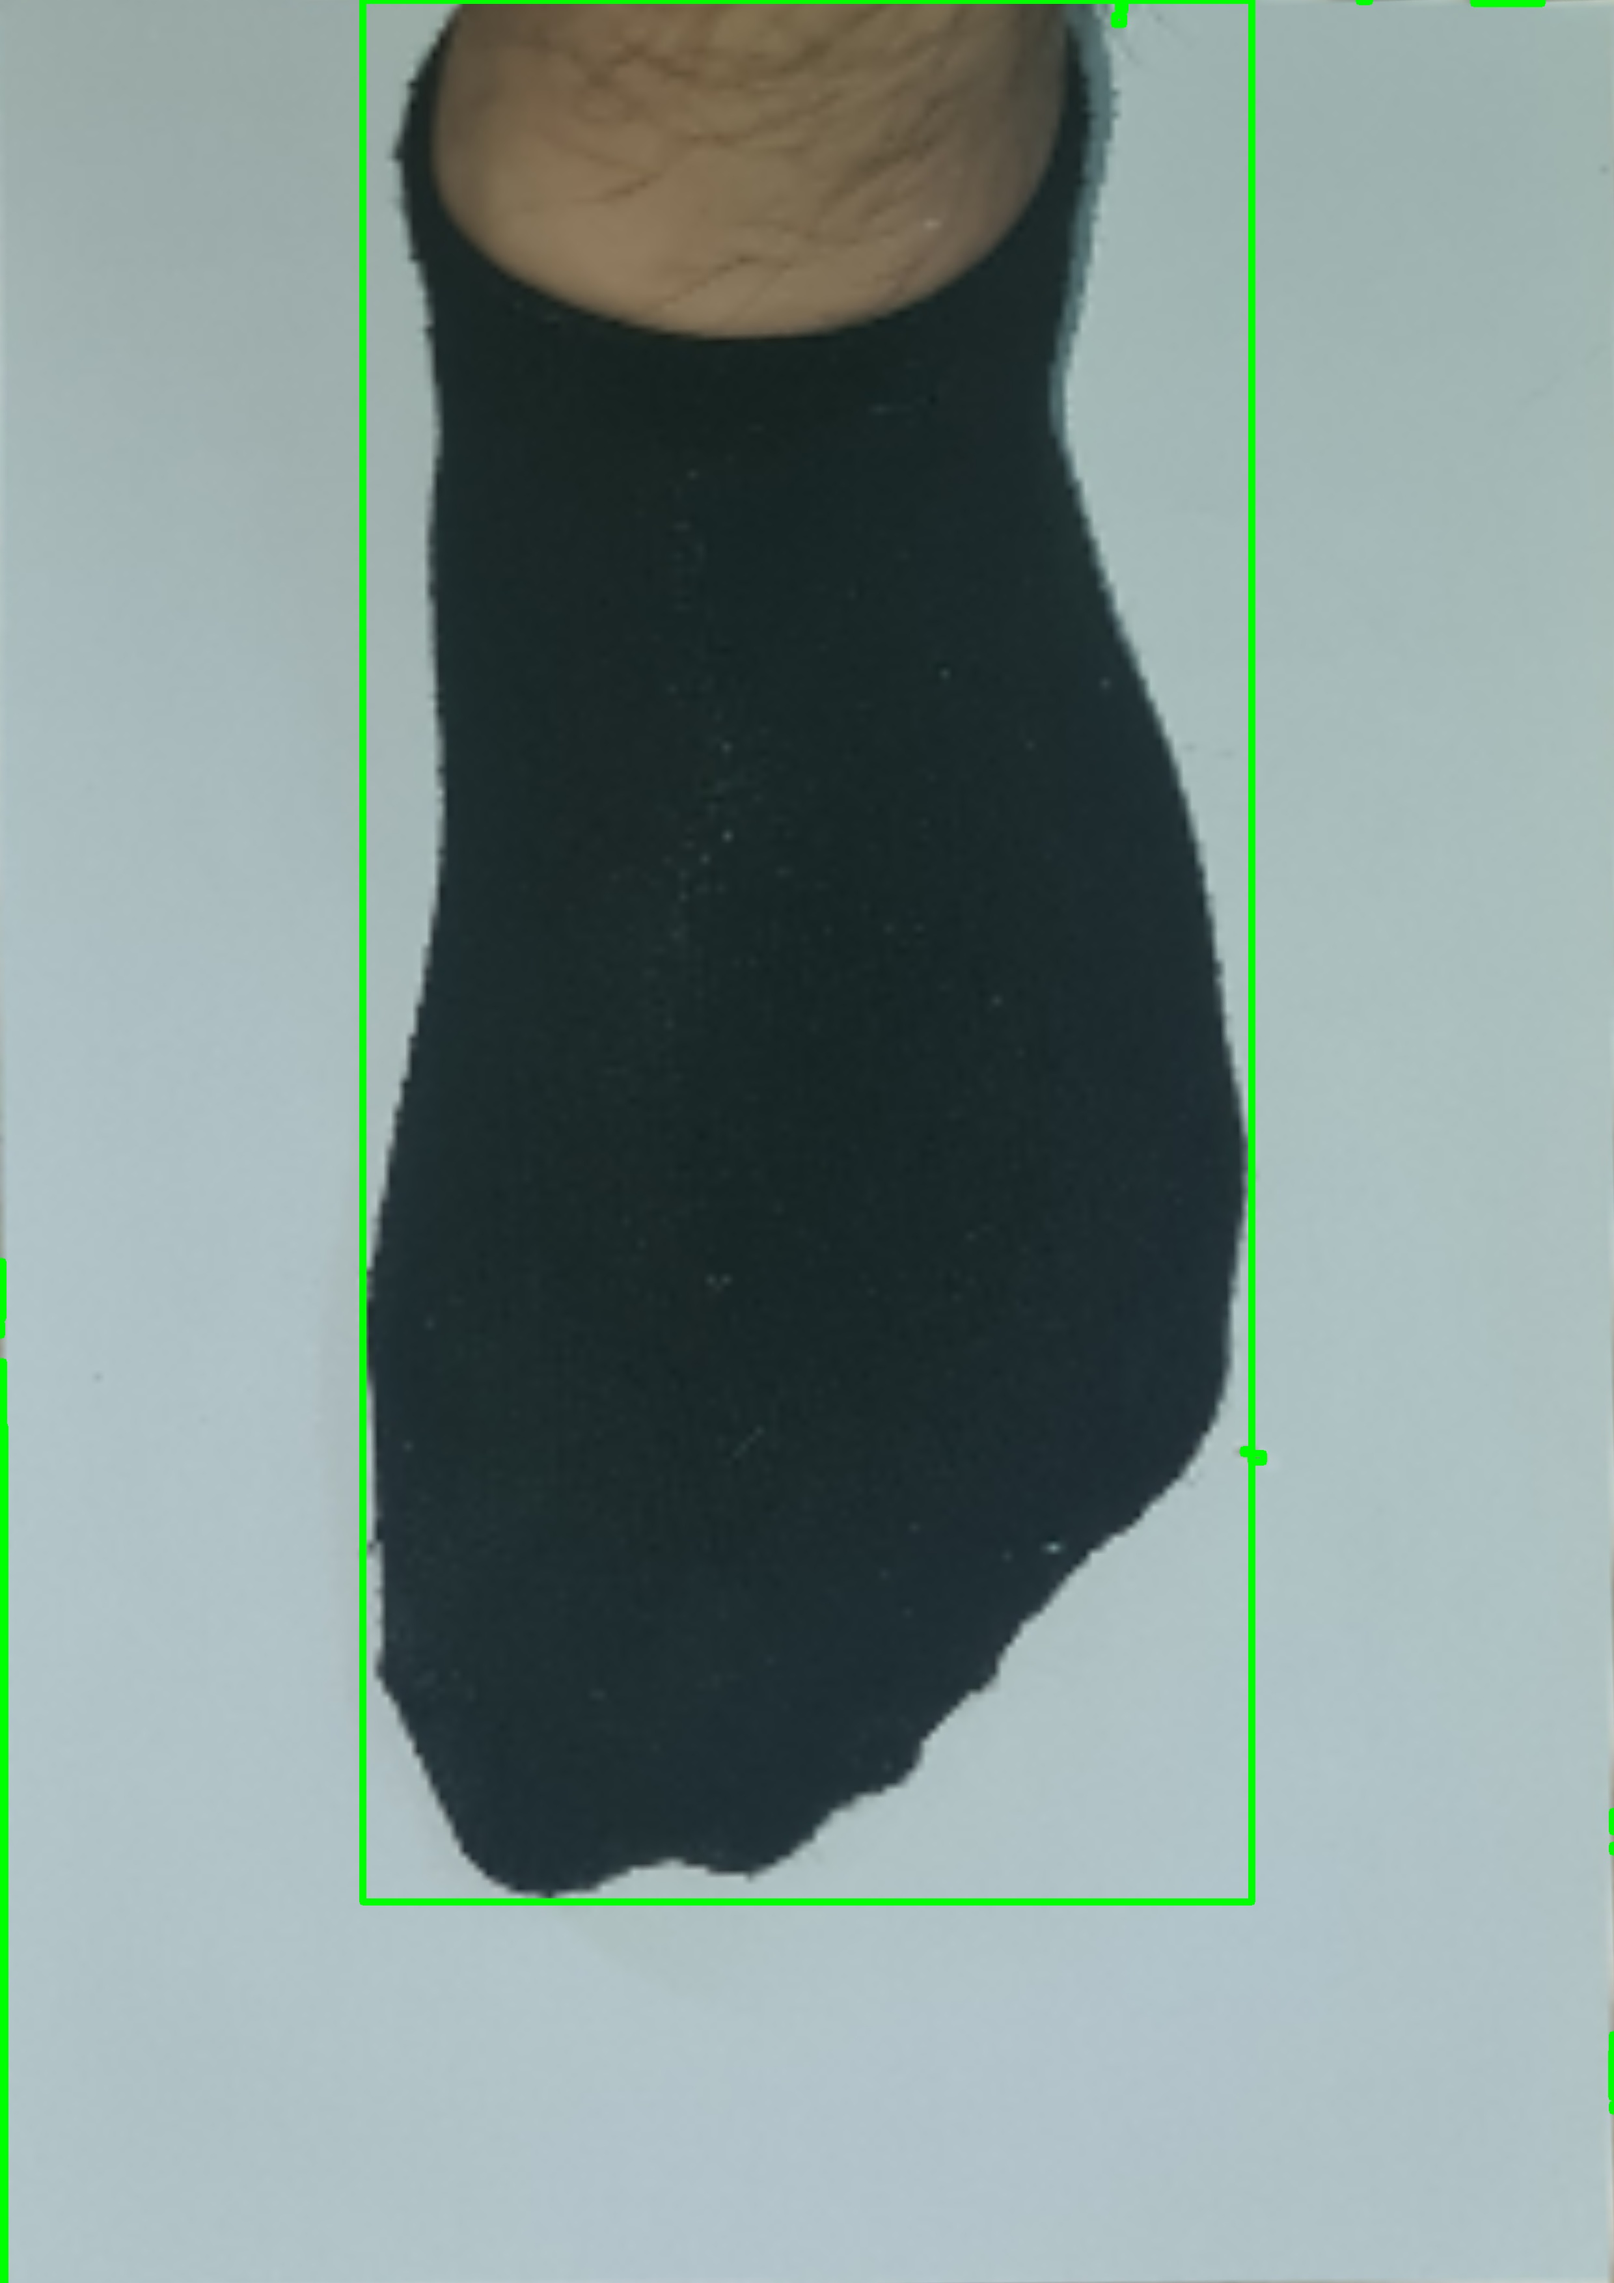
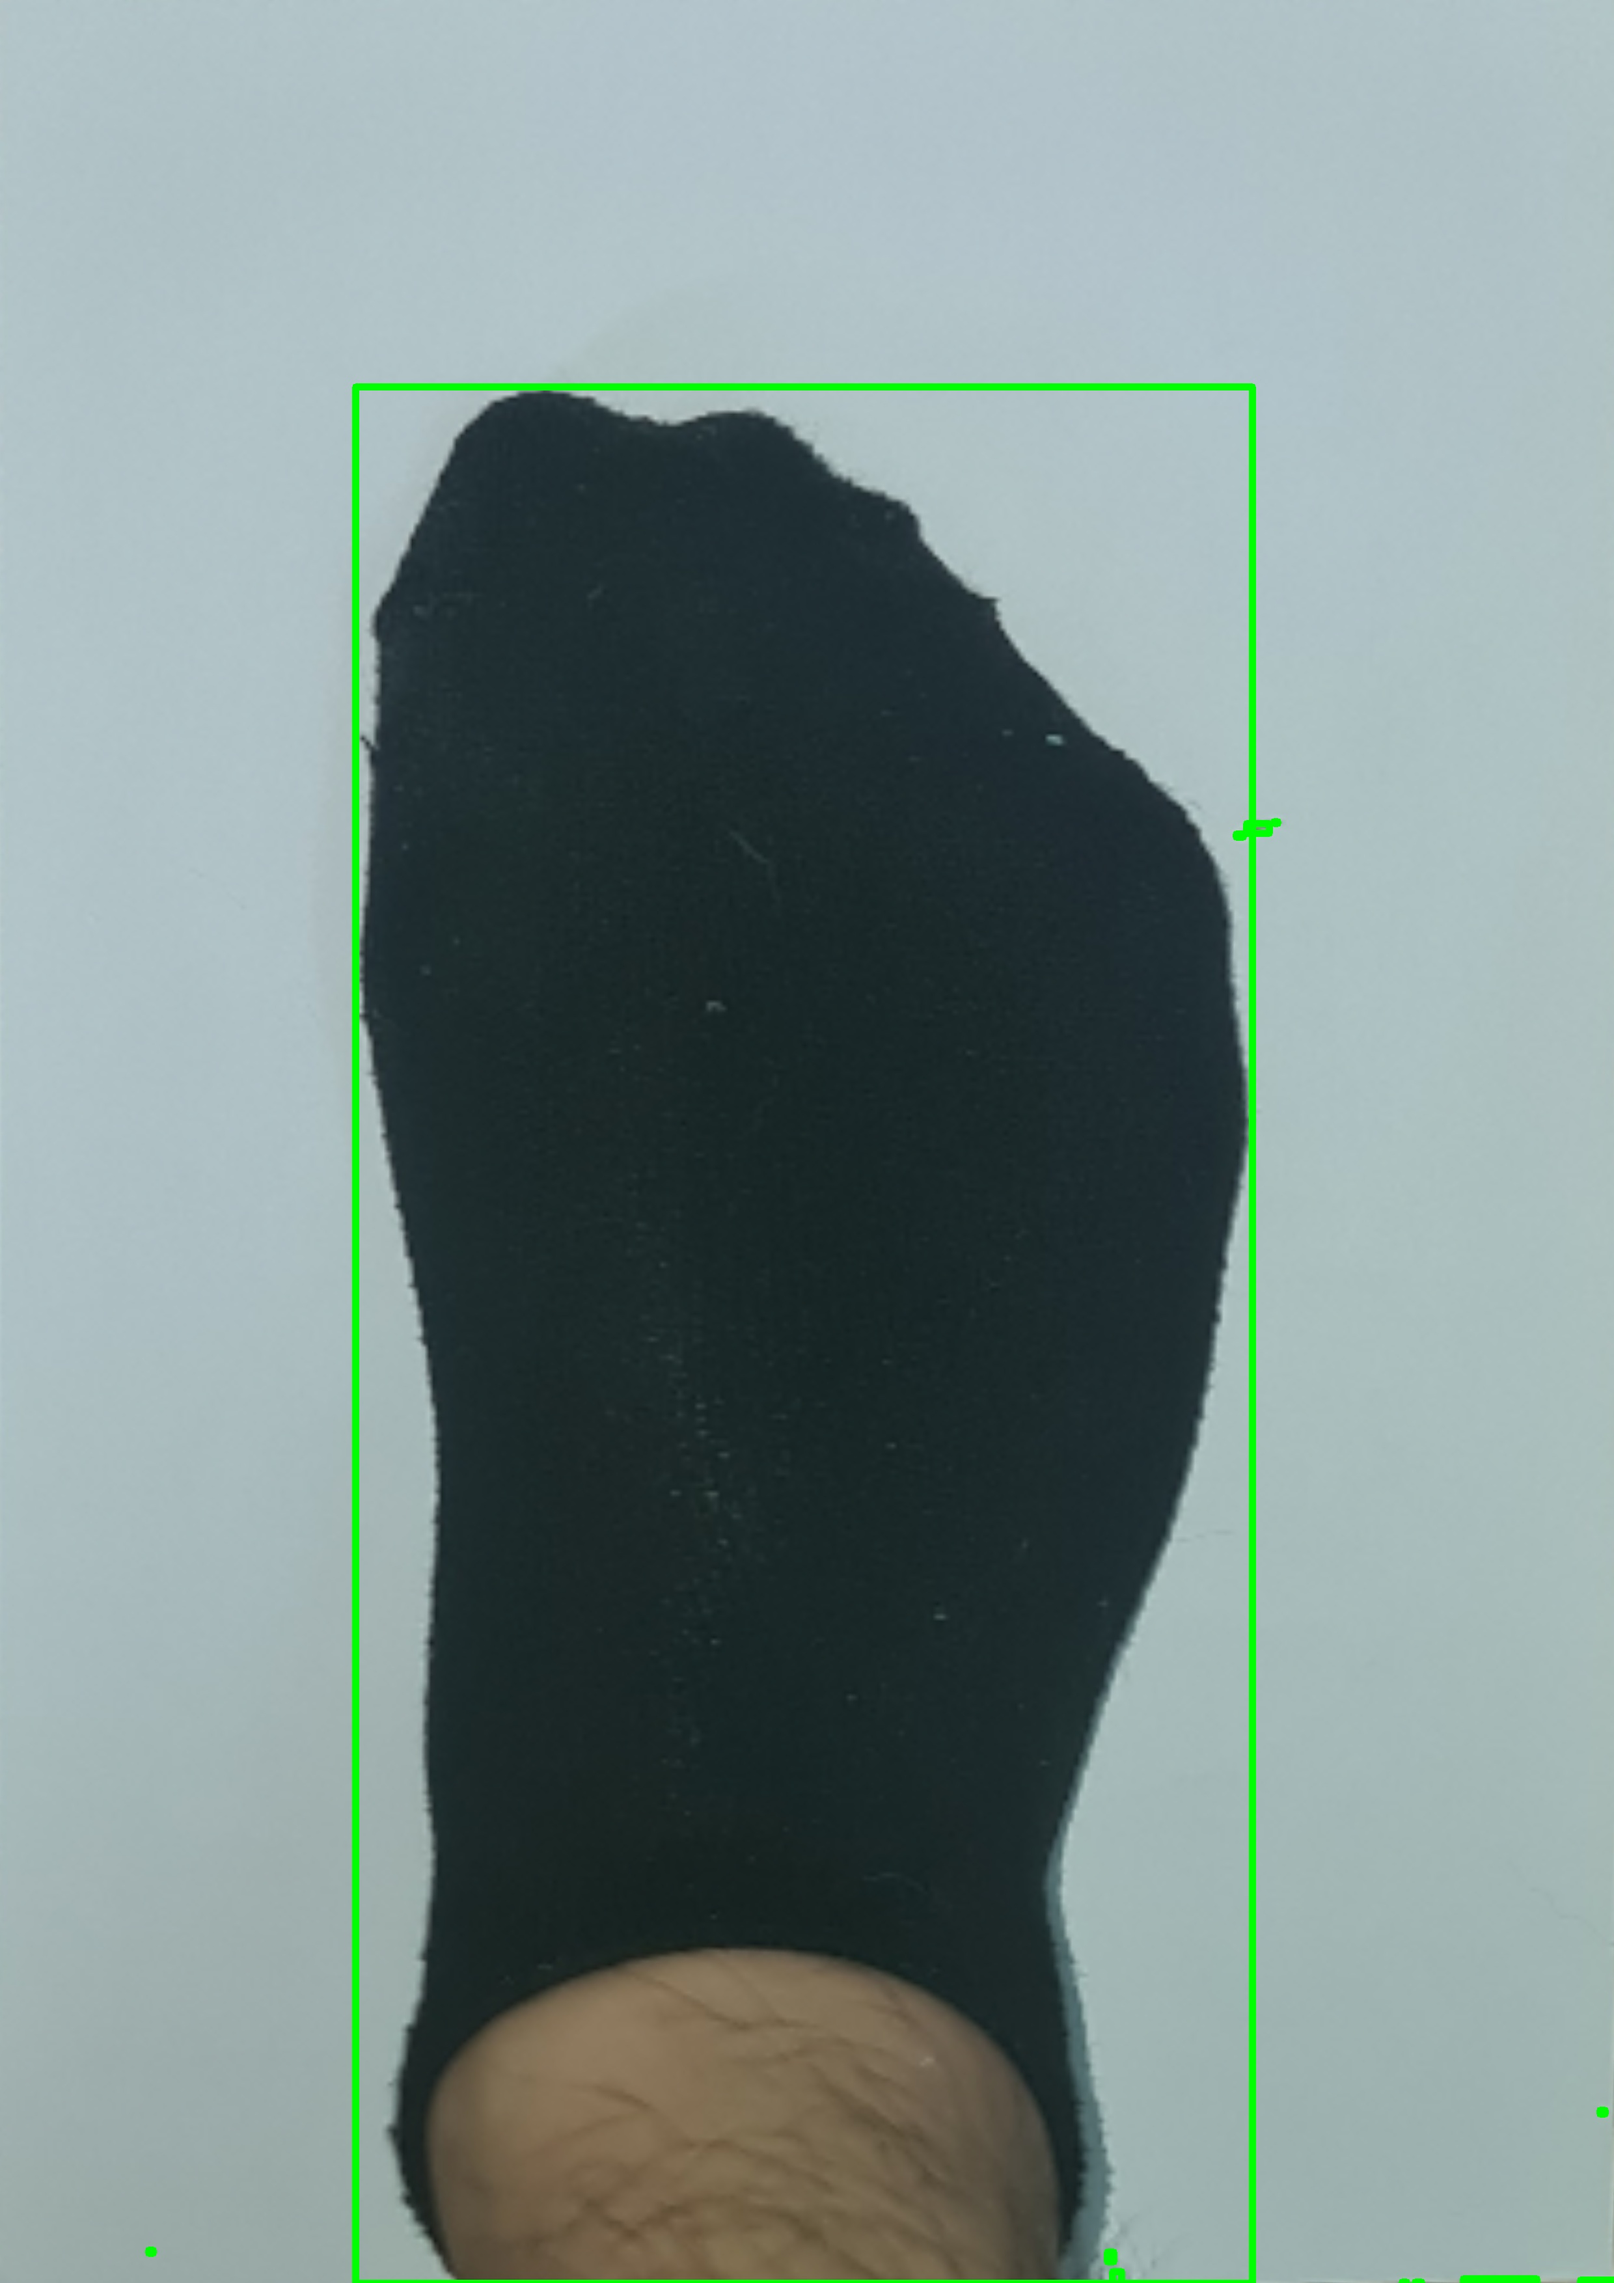
ปรับการครอบรูป
ปรับการครอบรูป

diff --git a/ของจริง/main2.py b/ของจริง/main2.py
@@ -1,0 +1,67 @@
+import cv2
+import imutils
+import numpy as np
+
+
+
+pts1 = []
+pts2 = [[0, 0], [2480, 0], [2480, 3508], [0, 3508]]
+def onClick(event, x, y, flags, param):
+    if event == cv2.EVENT_LBUTTONDOWN:
+        if len(pts1) < 4:
+            pts1.append([x, y])
+            print(pts1)
+img = cv2.imread('test1.jpg')  #****************************ชื่อรูป**************************
+imS= cv2.resize(img, (800, 800))
+cv2.imshow("test1", imS)
+# cv2.namedWindow('frame')
+cv2.setMouseCallback('test1', onClick)
+cv2.waitKey(0)
+
+if len(pts1) == 4:
+
+    T = cv2.getPerspectiveTransform(np.float32(pts1), np.float32(pts2))
+
+    result = cv2.warpPerspective(imS, T, (2480, 3508))
+    # w = 2480;
+    # h = 3508;
+    # pts1 = np.float32([myPoints[2], myPoints[4], myPoints[1], myPoints[0]])
+    # pts2 = np.float32([[0, 0], [w, 0], [0, h], [w, h]])
+    # matrix = cv2.getPerspectiveTransform(pts1, pts2)
+    # result = cv2.warpPerspective(imS, matrix, (w, h))
+
+cv2.imshow('frame', result)
+cv2.waitKey(0)
+cv2.imwrite('savedImage.jpg', result)
+
+gray1 = cv2.cvtColor(result, cv2.COLOR_BGR2GRAY)
+blurred1 = cv2.GaussianBlur(gray1, (5, 5), 0)
+thresh1 = cv2.threshold(blurred1, 150, 255, cv2.THRESH_BINARY)[1]
+
+edged1 = cv2.Canny(thresh1, 50, 100)
+edged1 = cv2.dilate(edged1, None, iterations=1)
+edged1 = cv2.erode(edged1, None, iterations=1)
+
+cnts = cv2.findContours(edged1.copy(), cv2.RETR_EXTERNAL, cv2.CHAIN_APPROX_SIMPLE)
+cnts = imutils.grab_contours(cnts)
+
+for c in cnts:
+
+    x, y, w1, h1 = cv2.boundingRect(c)
+    cv2.rectangle(result, (x, y), (x + w1, y + h1), (0, 255, 0), 10)
+
+
+cv2.imwrite('output/7edgedFeet.jpg',result)
+result= cv2.resize(result, (800, 800))
+cv2.imshow('frame', result)
+cv2.waitKey(0)
+print(x)
+print(y)
+print(w1)
+print(h1)
+
+WF = (w1/11.81)/10
+WH = (h1/11.81)/10
+print(WF)
+print(WH)
+
